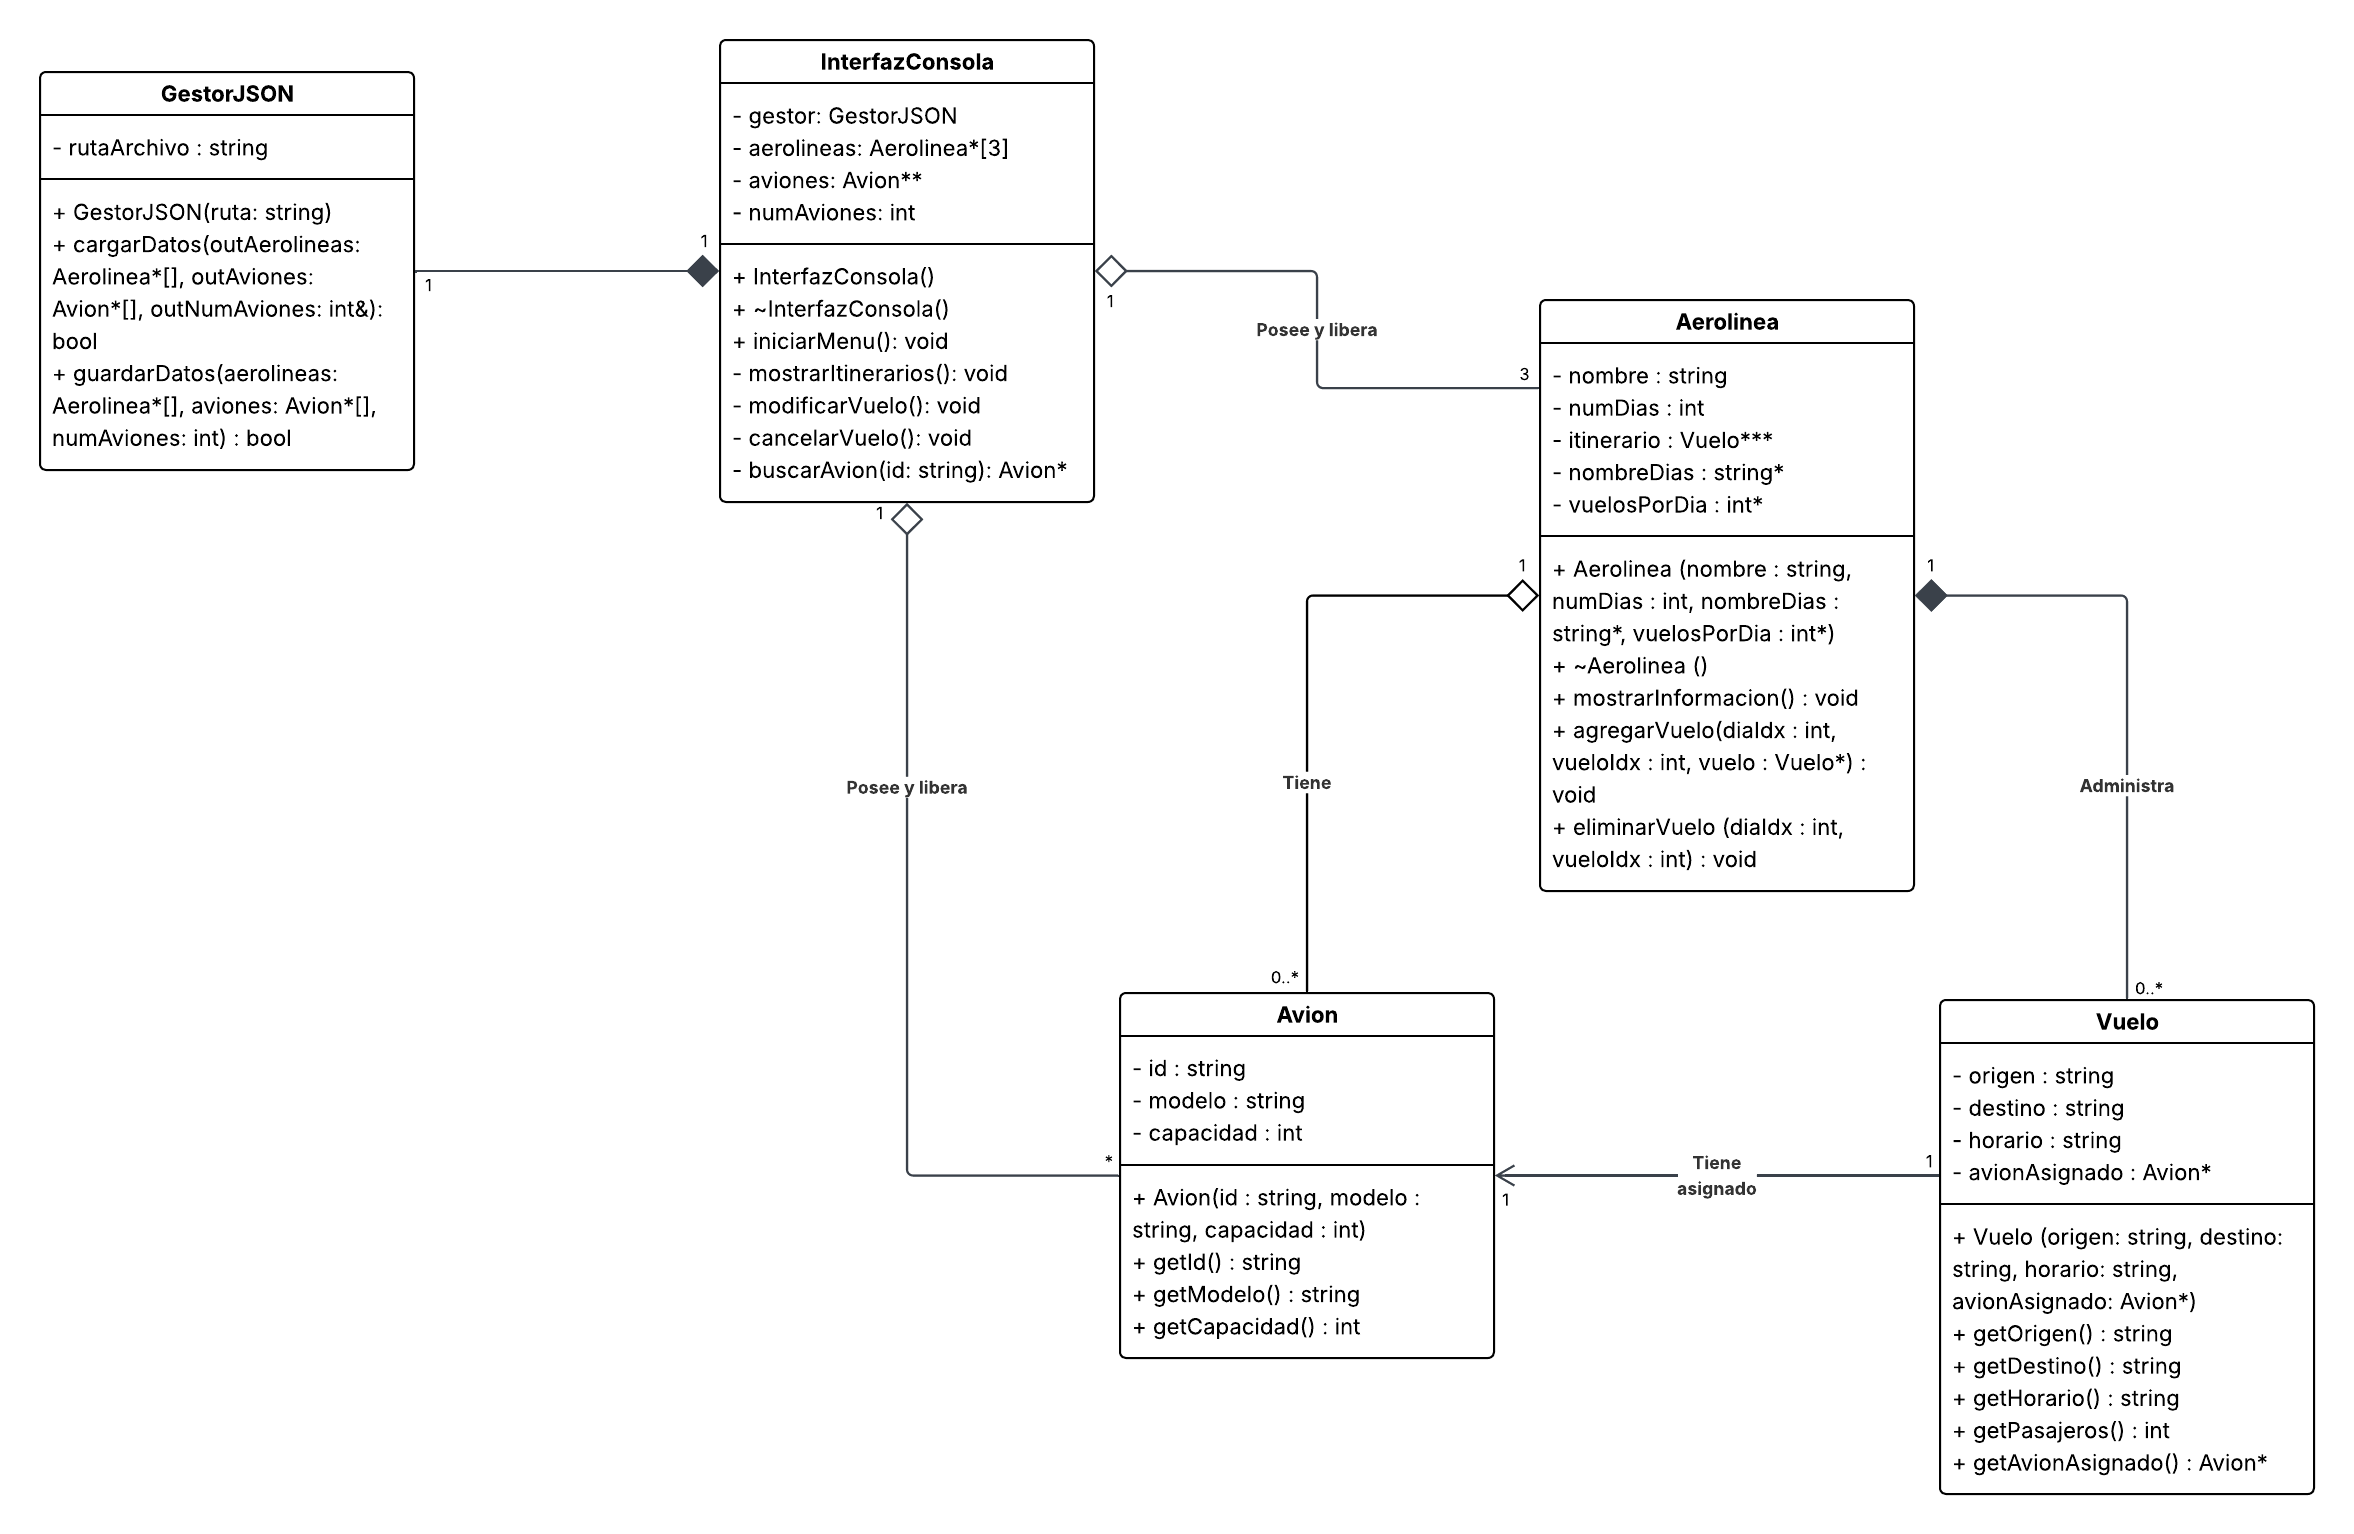
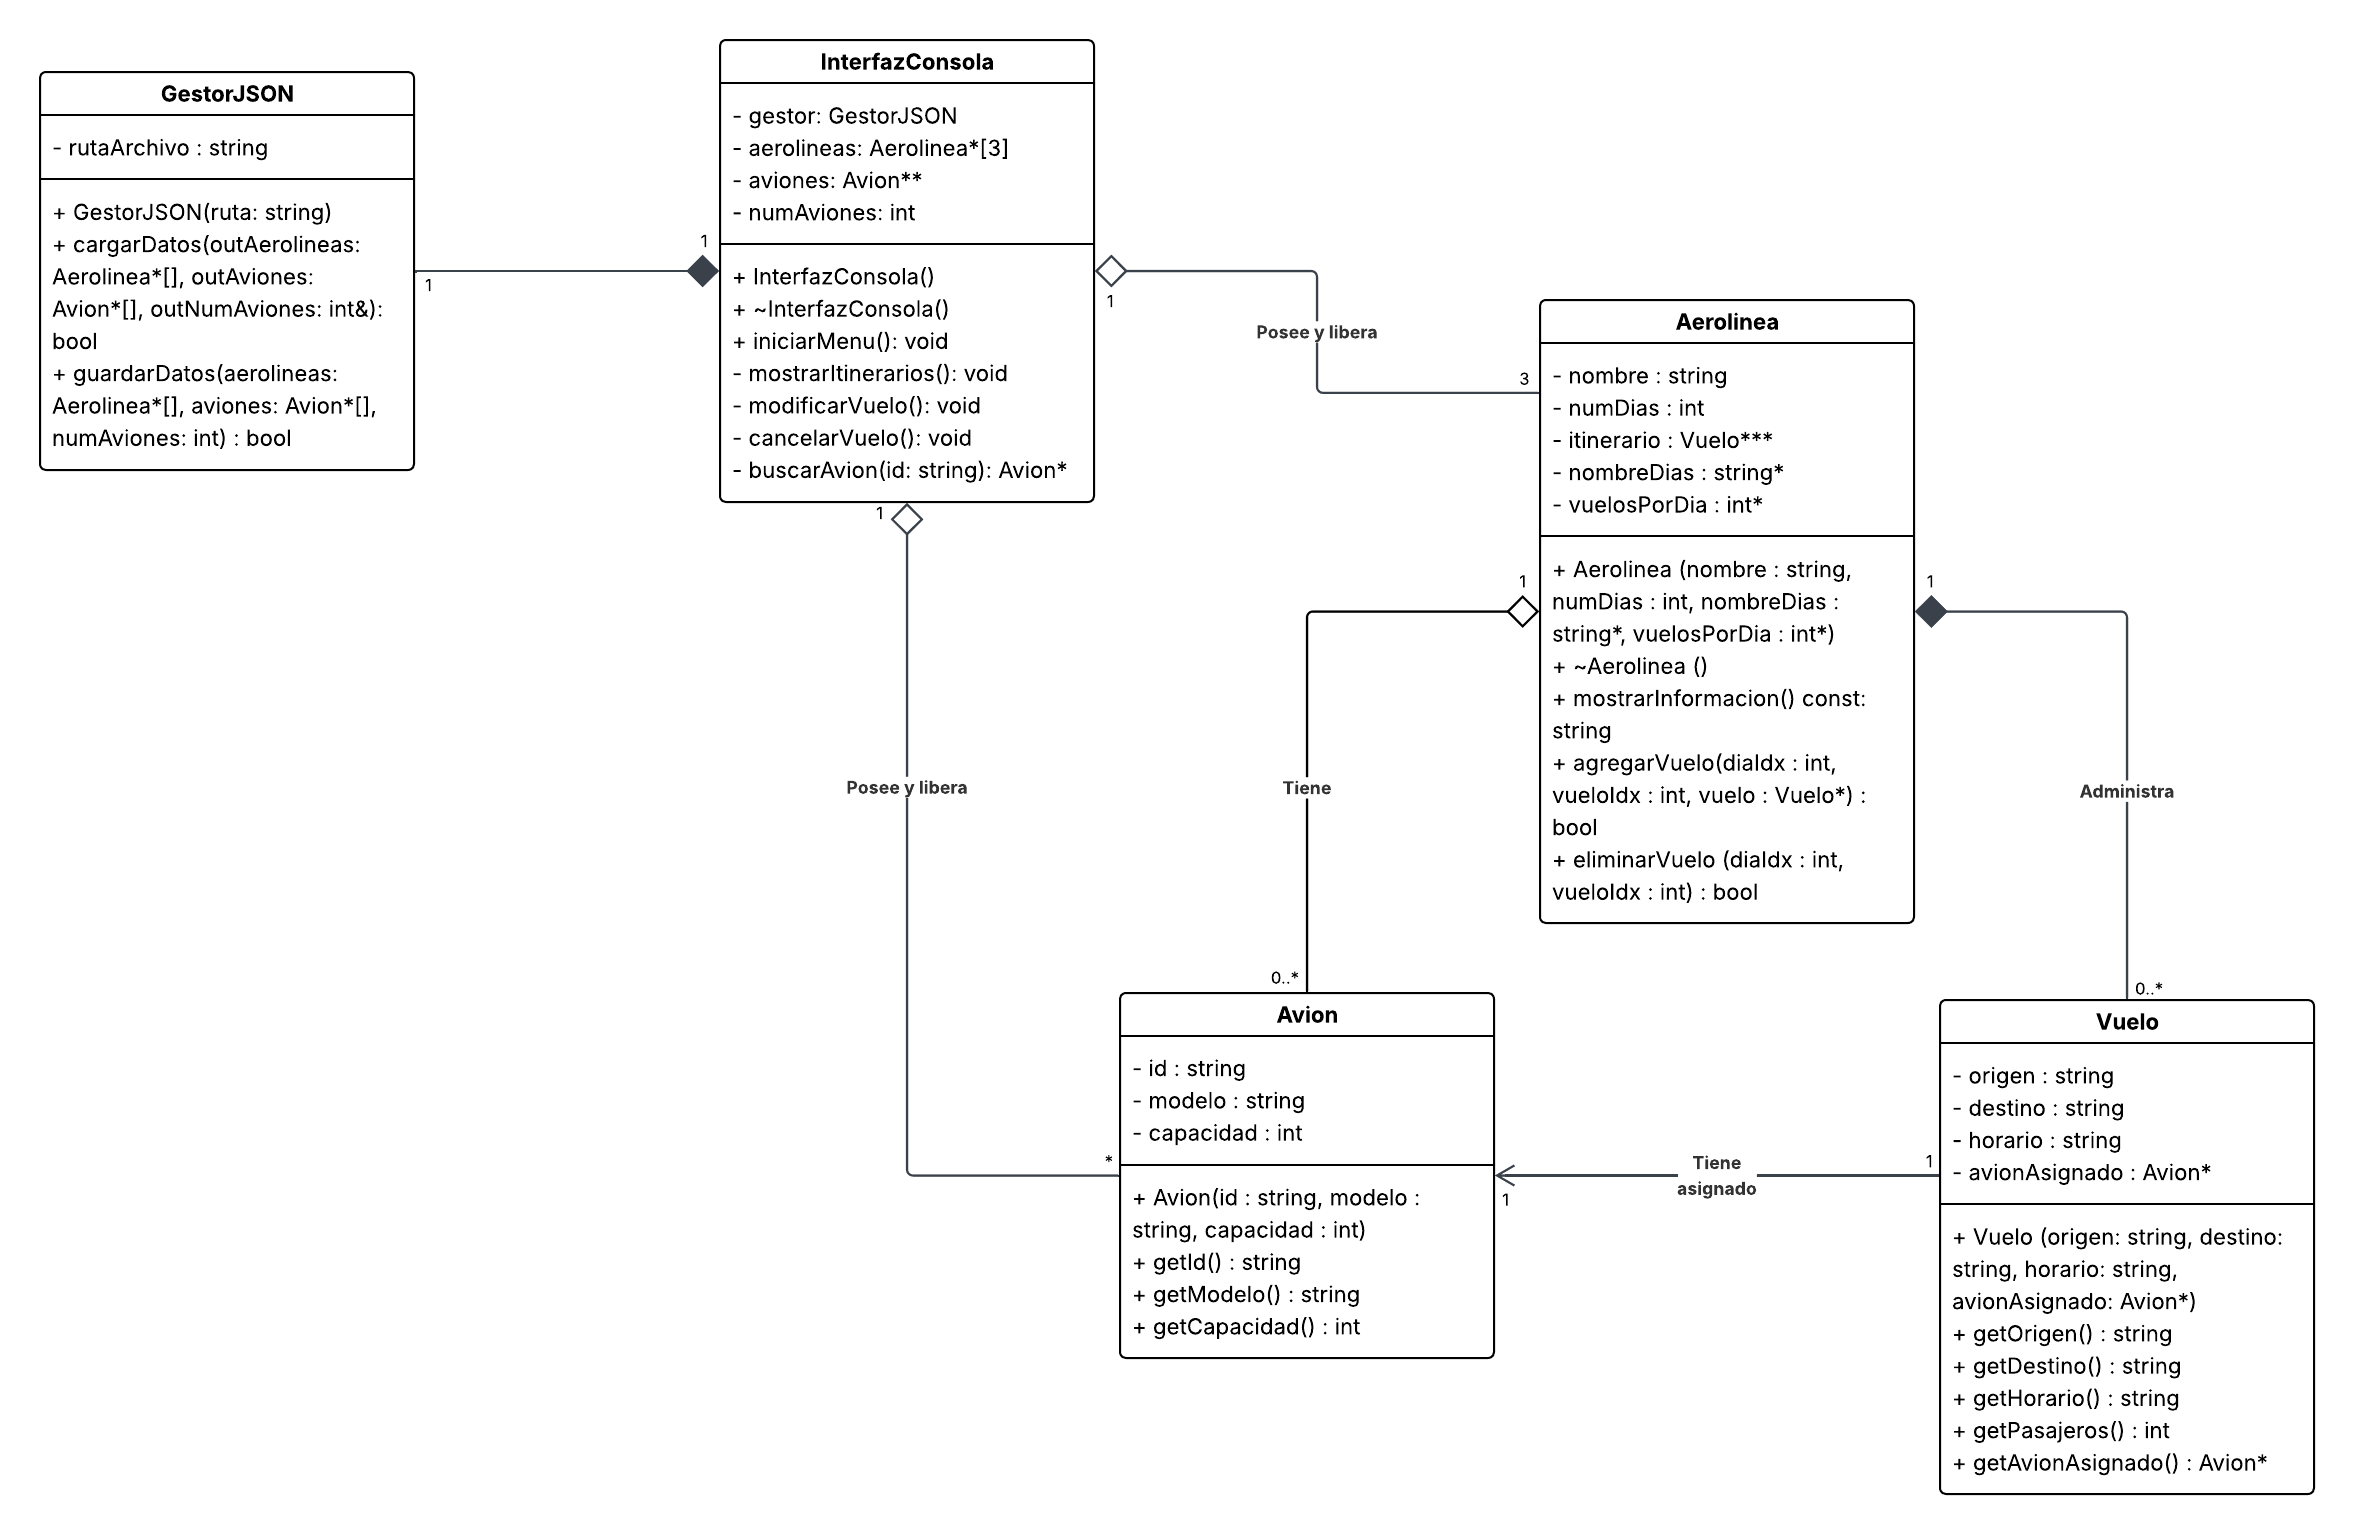
Separa presentacion: Aerolinea devuelve bool/string, implementa Aerolinea.cpp y actualiza UML

diff --git a/src/Aerolinea.cpp b/src/Aerolinea.cpp
@@ -1,0 +1,81 @@
+#include "Aerolinea.h"
+#include "Vuelo.h"
+#include "Avion.h"
+#include <sstream>
+
+Aerolinea::Aerolinea(std::string nombre, int numDias, std::string* nombreDias, int* vuelosPorDia) : nombre(nombre), numDias(numDias), nombreDias(nombreDias), vuelosPorDia(vuelosPorDia) {
+    itinerario = new Vuelo**[numDias];
+    for (int i = 0; i < numDias; i++) {
+        itinerario[i] = new Vuelo*[vuelosPorDia[i]];
+        for (int j = 0; j < vuelosPorDia[i]; j++) {
+            itinerario[i][j] = nullptr;
+        }
+    }
+}
+
+Aerolinea::~Aerolinea() {
+    for (int i = 0; i < numDias; i++) {
+        for (int j = 0; j < vuelosPorDia[i]; j++) {
+            delete itinerario[i][j];
+        }
+        delete[] itinerario[i];
+    }
+    delete[] itinerario;
+    delete[] nombreDias;
+    delete[] vuelosPorDia;
+}
+
+bool Aerolinea::agregarVuelo(int diaIdx, int vueloIdx, Vuelo* vuelo) {
+    if (diaIdx < 0 || diaIdx >= numDias) {
+        return false;
+    }
+    if (vueloIdx < 0 || vueloIdx >= vuelosPorDia[diaIdx]) {
+        return false;
+    }
+    if (itinerario[diaIdx][vueloIdx] != nullptr) {
+        return false;
+    }
+    itinerario[diaIdx][vueloIdx] = vuelo;
+    return true;
+}
+
+bool Aerolinea::eliminarVuelo(int diaIdx, int vueloIdx) {
+    if (diaIdx < 0 || diaIdx >= numDias) {
+        return false;
+    }
+    if (vueloIdx < 0 || vueloIdx >= vuelosPorDia[diaIdx]) {
+        return false;
+    }
+    if (itinerario[diaIdx][vueloIdx] == nullptr) {
+        return false;
+    }
+    delete itinerario[diaIdx][vueloIdx];
+    itinerario[diaIdx][vueloIdx] = nullptr;
+    return true;
+}
+
+std::string Aerolinea::mostrarInformacion() const {
+    std::ostringstream out;
+    out << "Aerolinea: " << nombre << " (" << numDias << " dias)\n";
+    for (int d = 0; d < numDias; d++) {
+        out << nombreDias[d] << ":\n";
+        for (int v = 0; v < vuelosPorDia[d]; v++) {
+            Vuelo* vuelo = itinerario[d][v];
+            if (vuelo == nullptr) {
+                out << "  [" << v << "] Libre\n";
+            } else {
+                out << "  [" << v << "] " << vuelo->getOrigen() << " -> " << vuelo->getDestino()
+                    << " | " << vuelo->getHorario() << " | ";
+                Avion* avion = vuelo->getAvionAsignado();
+                if (avion != nullptr) {
+                    out << avion->getId();
+                } else {
+                    out << "Sin avion";
+                }
+                out << "\n";
+            }
+        }
+    }
+    return out.str();
+}
+

diff --git a/include/Aerolinea.h b/include/Aerolinea.h
@@ -16,9 +16,9 @@ private:
 public:
     Aerolinea(std::string nombre, int numDias, std::string* nombreDias, int* vuelosPorDia);
     ~Aerolinea();
-    void mostrarInformacion();
-    void agregarVuelo(int diaIdx, int vueloIdx, Vuelo* vuelo);
-    void eliminarVuelo(int diaIdx, int vueloIdx);
+    std::string mostrarInformacion() const;
+    bool agregarVuelo(int diaIdx, int vueloIdx, Vuelo* vuelo);
+    bool eliminarVuelo(int diaIdx, int vueloIdx);
 };
 
 #endif
